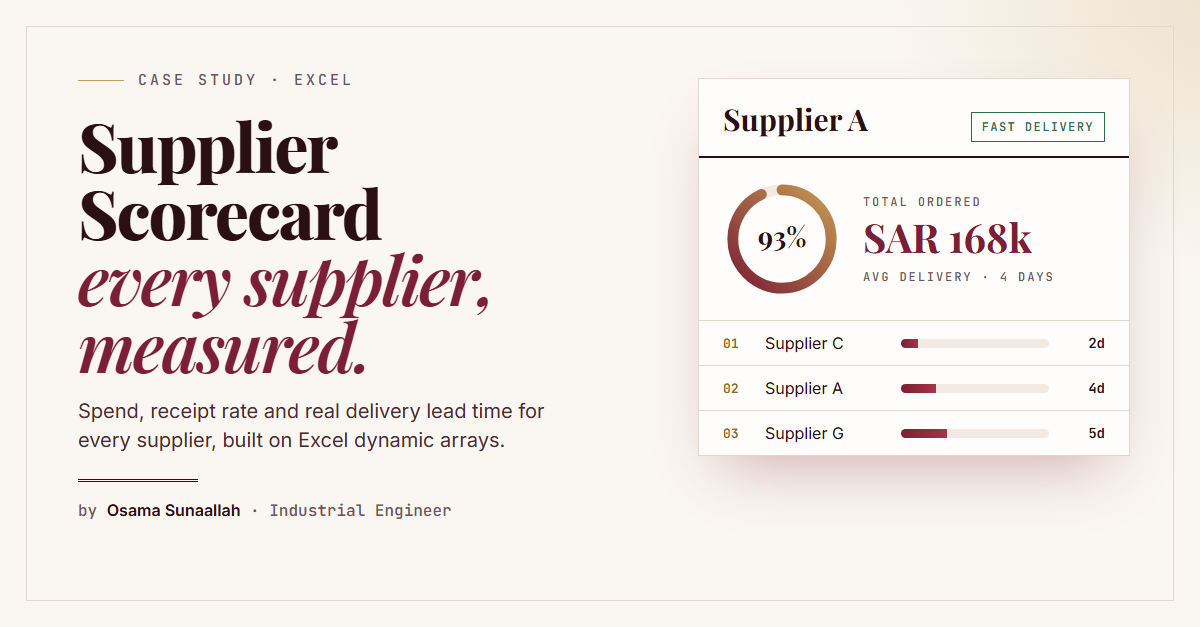
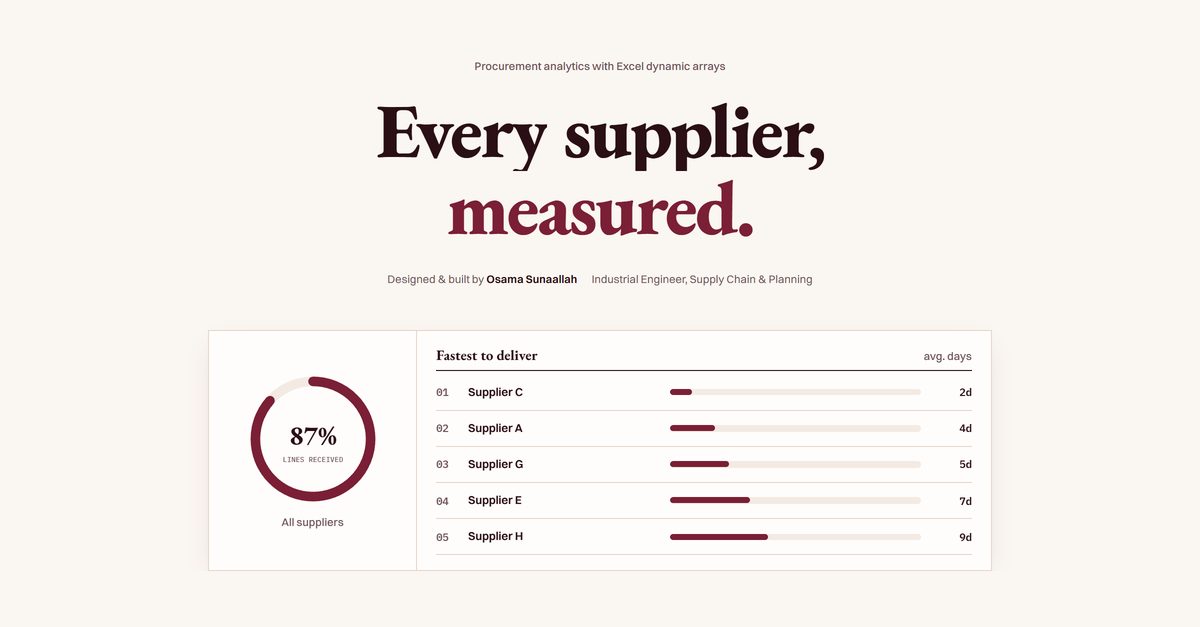
New share image from the current design

diff --git a/index.html b/index.html
@@ -8,7 +8,7 @@
 <meta property="og:type" content="website">
 <meta property="og:title" content="Supplier Scorecard | Osama Sunaallah">
 <meta property="og:description" content="A formula-driven supplier performance scorecard in Excel: spend, receipt rate and delivery lead time. Portfolio case study.">
-<meta property="og:image" content="https://osamasunaallah.github.io/Supplier-Evaluation/thumbnail.png">
+<meta property="og:image" content="https://osamasunaallah.github.io/Supplier-Evaluation/thumbnail.png?v=2">
 <meta property="og:image:width" content="1200"><meta property="og:image:height" content="627">
 <meta property="og:url" content="https://osamasunaallah.github.io/Supplier-Evaluation/">
 <meta name="twitter:card" content="summary_large_image">
